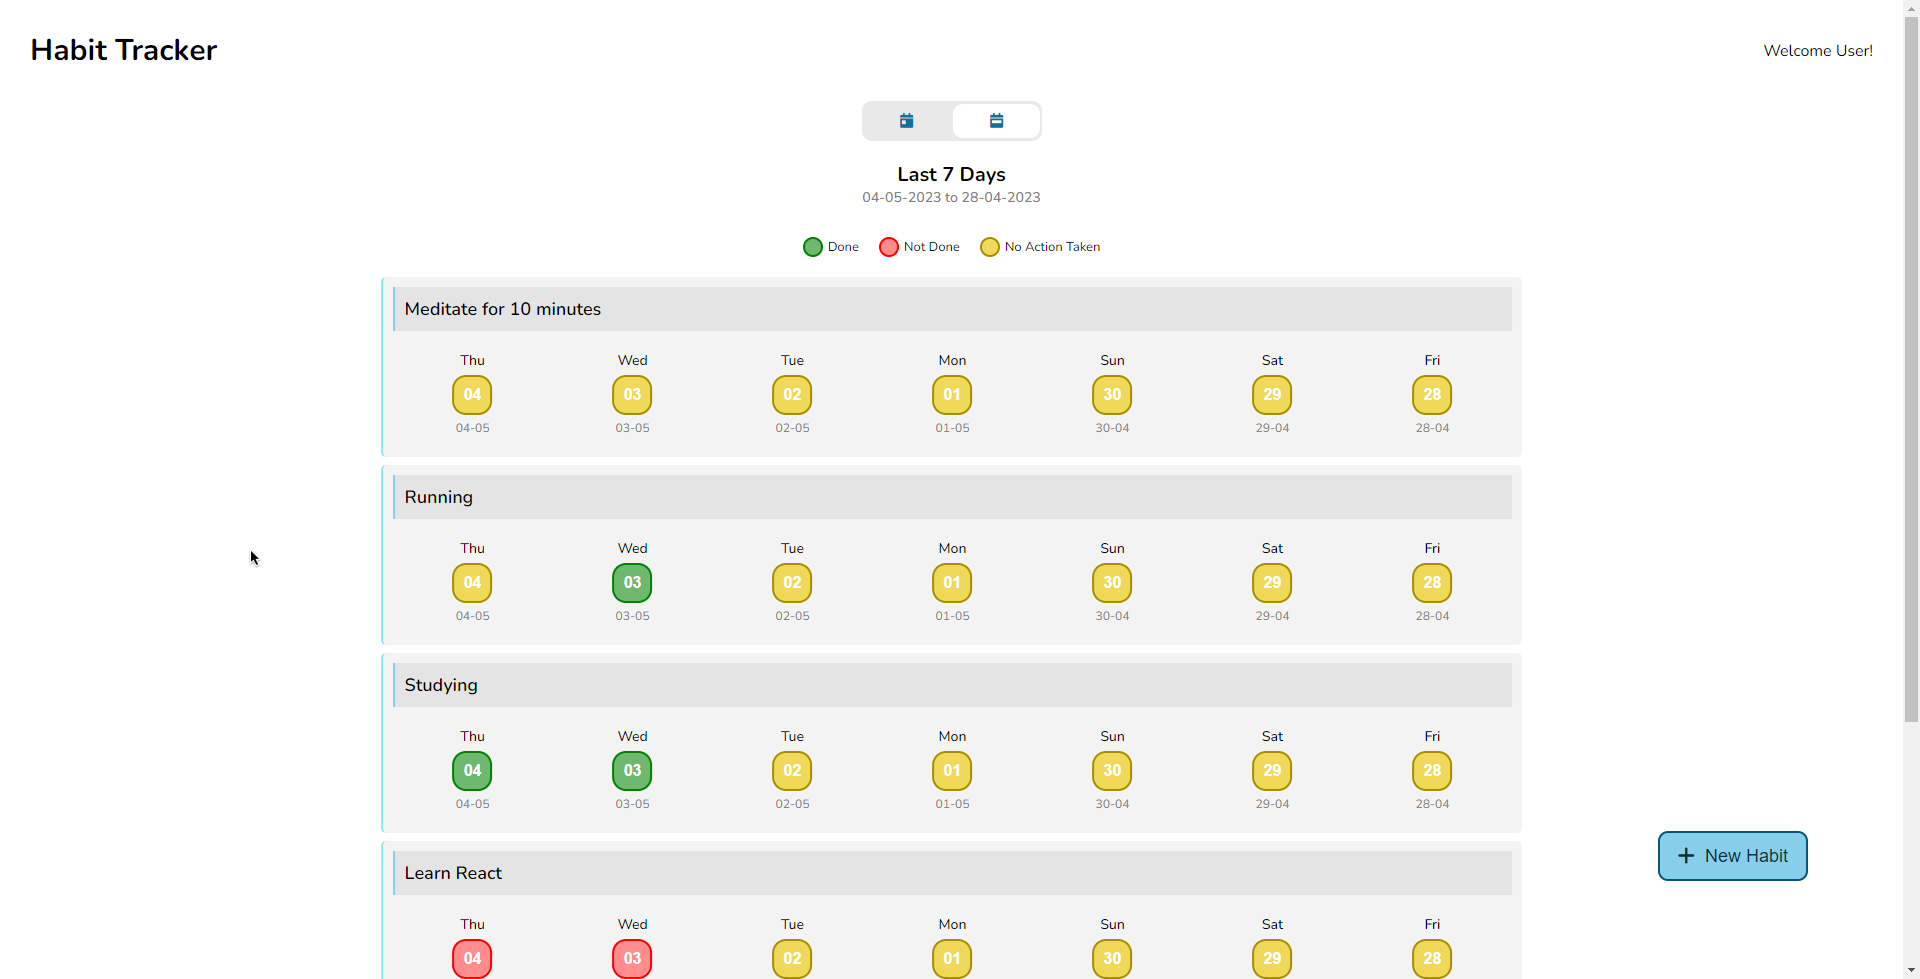
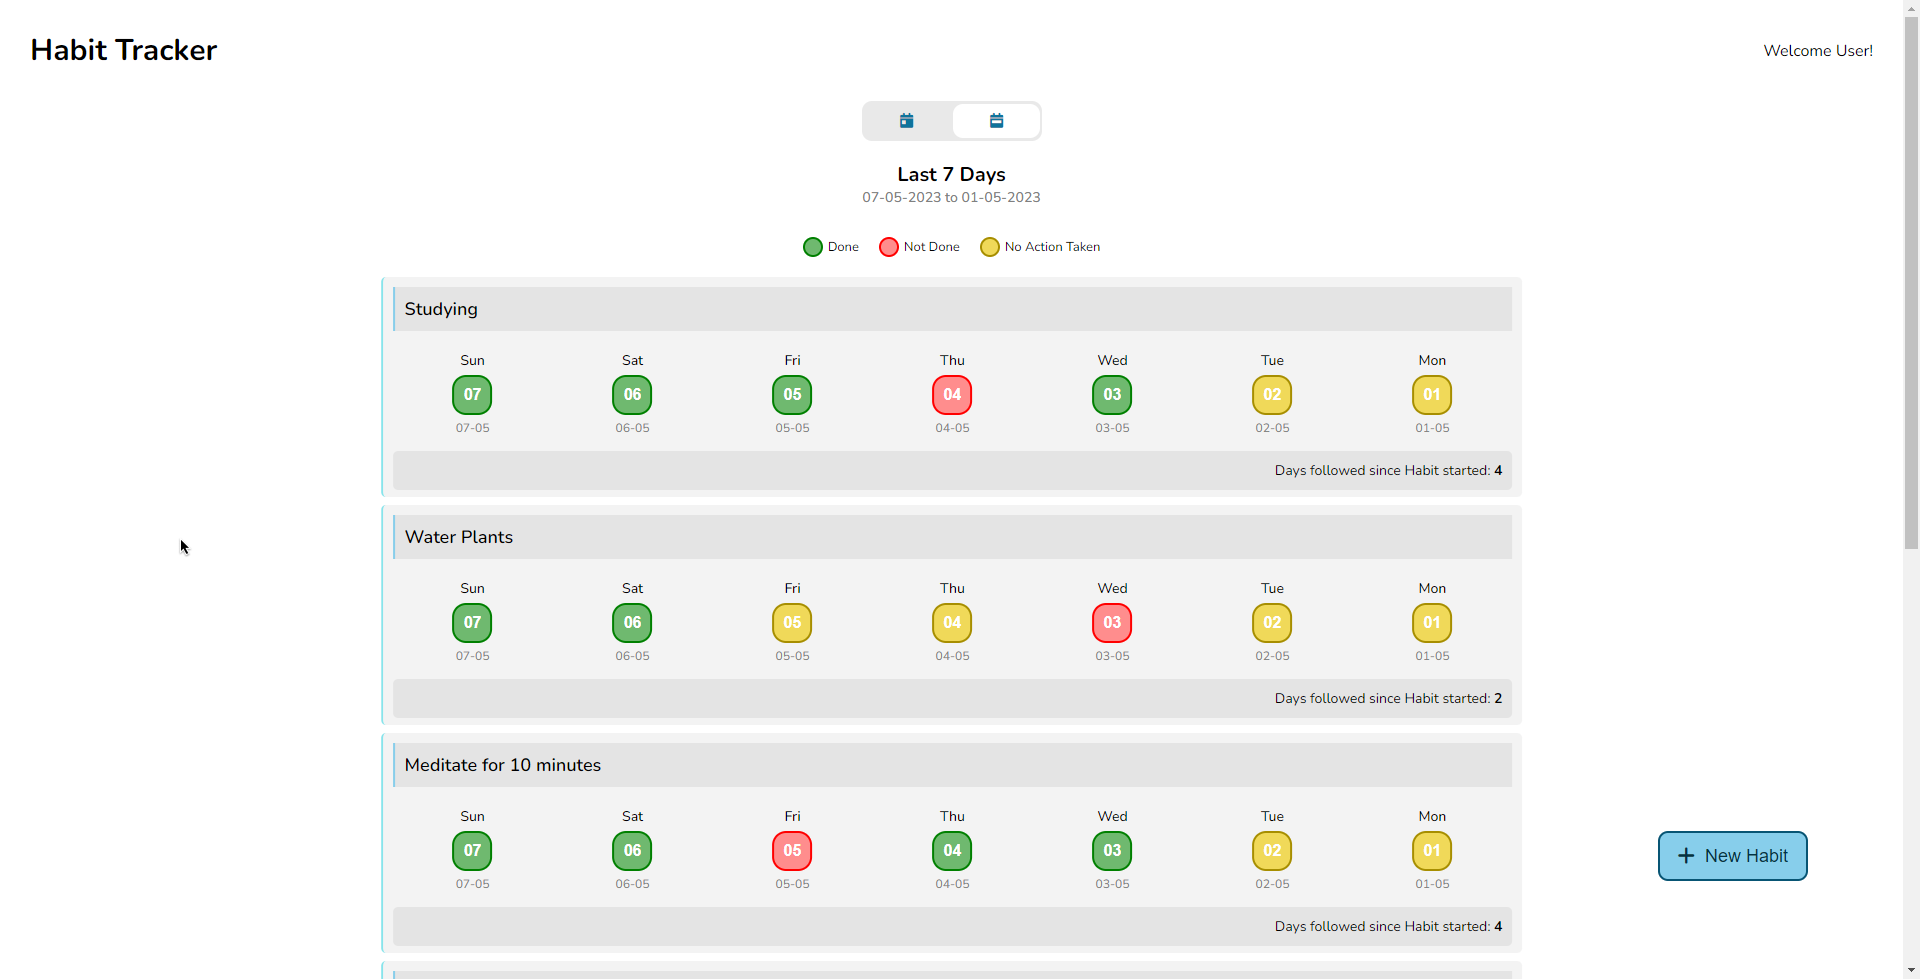
added days followed and improve sort

diff --git a/controllers/habit_controller.js b/controllers/habit_controller.js
@@ -36,15 +36,20 @@ module.exports.updateCompletion = async (req, res) => {
   try {
     const habit = await HabitTracker.findById(req.params.id);
     let daysDone = habit.daysDone;
+    let daysFollowed = habit.daysFollowed;
     let isHabitDone = false;
 
     daysDone.find(function (a, index) {
       if (a.date == req.params.date) {
         if (a.completion == 'Done') {
           a.completion = 'Not Done';
+          if (daysFollowed > 0) {
+            daysFollowed -= 1;
+          }
           req.flash('error', 'Habit marked as Not Done!');
         } else {
           a.completion = 'Done';
+          daysFollowed += 1;
           req.flash('success', 'Habit marked as Done!');
         }
         isHabitDone = true;
@@ -52,10 +57,28 @@ module.exports.updateCompletion = async (req, res) => {
     });
     if (!isHabitDone) {
       daysDone.push({ date: req.params.date, completion: 'Done' });
+      daysFollowed += 1;
       req.flash('success', 'Habit marked as Done');
     }
     habit.daysDone = daysDone;
+    habit.daysFollowed = daysFollowed;
     await habit.save();
+
+    // let streak = 0;
+    // for (let i = 0; i < habit.daysDone.length; i++) {
+    //   if (
+    //     habit.daysDone[i].completion == 'Not Done' ||
+    //     habit.daysDone[i].completion == 'None'
+    //   ) {
+    //     break;
+    //   } else if (habit.daysDone[i].completion == 'Done') {
+    //     streak += 1;
+    //   }
+    // }
+
+    // habit.LongestStreak = streak;
+    // await habit.save();
+
     console.log(habit);
     return res.redirect('back');
   } catch (err) {

diff --git a/assets/css/home.css b/assets/css/home.css
@@ -240,7 +240,7 @@ ul {
   flex-direction: column;
   background-color: rgb(243, 243, 243);
   margin-bottom: 0.8rem;
-  height: 18rem;
+  height: 22rem;
   padding: 1rem;
   border-radius: 0.5rem;
   border-left: 2px solid rgb(135, 228, 235);
@@ -326,4 +326,16 @@ ul {
   height: 2rem;
   width: 2rem;
   border-radius: 50%;
+}
+
+#extra-stats-div {
+  font-size: 1.4rem;
+  margin-top: 1rem;
+  display: flex;
+  justify-content: end;
+  align-items: center;
+  gap: 2rem;
+  background-color: rgb(228, 228, 228);
+  padding: 1rem;
+  border-radius: 0.5rem;
 }

diff --git a/assets/scss/_week_view.scss b/assets/scss/_week_view.scss
@@ -22,7 +22,7 @@
   flex-direction: column;
   background-color: rgb(243, 243, 243);
   margin-bottom: 0.8rem;
-  height: 18rem;
+  height: 22rem;
   padding: 1rem;
   border-radius: 0.5rem;
   border-left: 2px solid rgb(135, 228, 235);
@@ -104,4 +104,14 @@
   height: 2rem;
   width: 2rem;
   border-radius: 50%;
+}
+
+#extra-stats-div {
+  font-size: 1.4rem;
+  margin-top: 1rem;
+  @include flex(end);
+  gap: 2rem;
+  background-color: rgb(228, 228, 228);
+  padding: 1rem;
+  border-radius: 0.5rem;
 }

diff --git a/controllers/home_controller.js b/controllers/home_controller.js
@@ -53,7 +53,7 @@ function daysDateStats() {
 
 module.exports.home = async (req, res) => {
   try {
-    const habit = await Habit.find({}).sort({ time: 1 }).exec();
+    const habit = await Habit.find({}).sort({ starred: -1, time: 1 }).exec();
     const user = await User.findOne({ email: 'default@gmail.com' });
 
     return res.render('home', {

diff --git a/models/habit_tracker.js b/models/habit_tracker.js
@@ -21,9 +21,13 @@ const habitTrackerSchema = new mongoose.Schema(
     },
     LongestStreak: {
       type: Number,
+      default: 0,
+      min: 0,
     },
     daysFollowed: {
       type: Number,
+      default: 0,
+      min: 0,
     },
     time: {
       type: String,

diff --git a/README.md b/README.md
@@ -1,4 +1,4 @@
-This is a Full Stack Habit Tracker App.
+Full Stack Habit Tracker App.
 
 ## Table of contents
 
@@ -11,7 +11,7 @@ This is a Full Stack Habit Tracker App.
 
 ### Overview
 
-- This app helps to create and track habits. And it has two views, Daily view and Last 7 Days view to get a better idea on how you are progressing with your habits.
+- This is a Full Stack Habit Tracker app helps to create and track habits. And it has two views, Daily view and Last 7 Days view to get a better idea on how you are progressing with your habits.
 
 ### Screenshot
 
@@ -31,8 +31,8 @@ This is a Full Stack Habit Tracker App.
 
 - Must have NodeJs and MongoDB installed.
 - Install all needed npm dependencies from package.json.
-- "npm start" (or) "npm run dev" if you need to compile sass files
-- Server should run on "http://127.0.0.1:8000/"
+- "npm start" (or) "npm run dev" if you need to compile sass files.
+- Server should run on "http://localhost:8000/".
 
 ## Folder Structure
 
